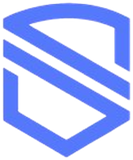
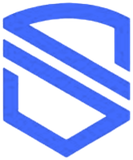
Unify nav brand color to a single master blue
The wordmark used a rogue #2E3A8C, while the logo mark PNG's dominant
hue was ~#5678FE — both different from #3B60E4, the brand blue used
everywhere else in the codebase (11 other uses, vs 1 stray use of
#2E3A8C and one mismatched image). Recolored seco-mark.png in place
(hue/saturation locked to #3B60E4, original per-pixel brightness
preserved so the existing shading/gradient depth survives) and fixed
the wordmark's inline color to match.

diff --git a/index.jsx b/index.jsx
@@ -89,7 +89,7 @@ export default function Site() {
             <div>
               <div
                 className="text-lg font-bold"
-                style={{ color: overHero ? '#FFFFFF' : '#2E3A8C', letterSpacing: '0.08em', lineHeight: 1 }}
+                style={{ color: overHero ? '#FFFFFF' : '#3B60E4', letterSpacing: '0.08em', lineHeight: 1 }}
               >
                 SECO BIO
               </div>
